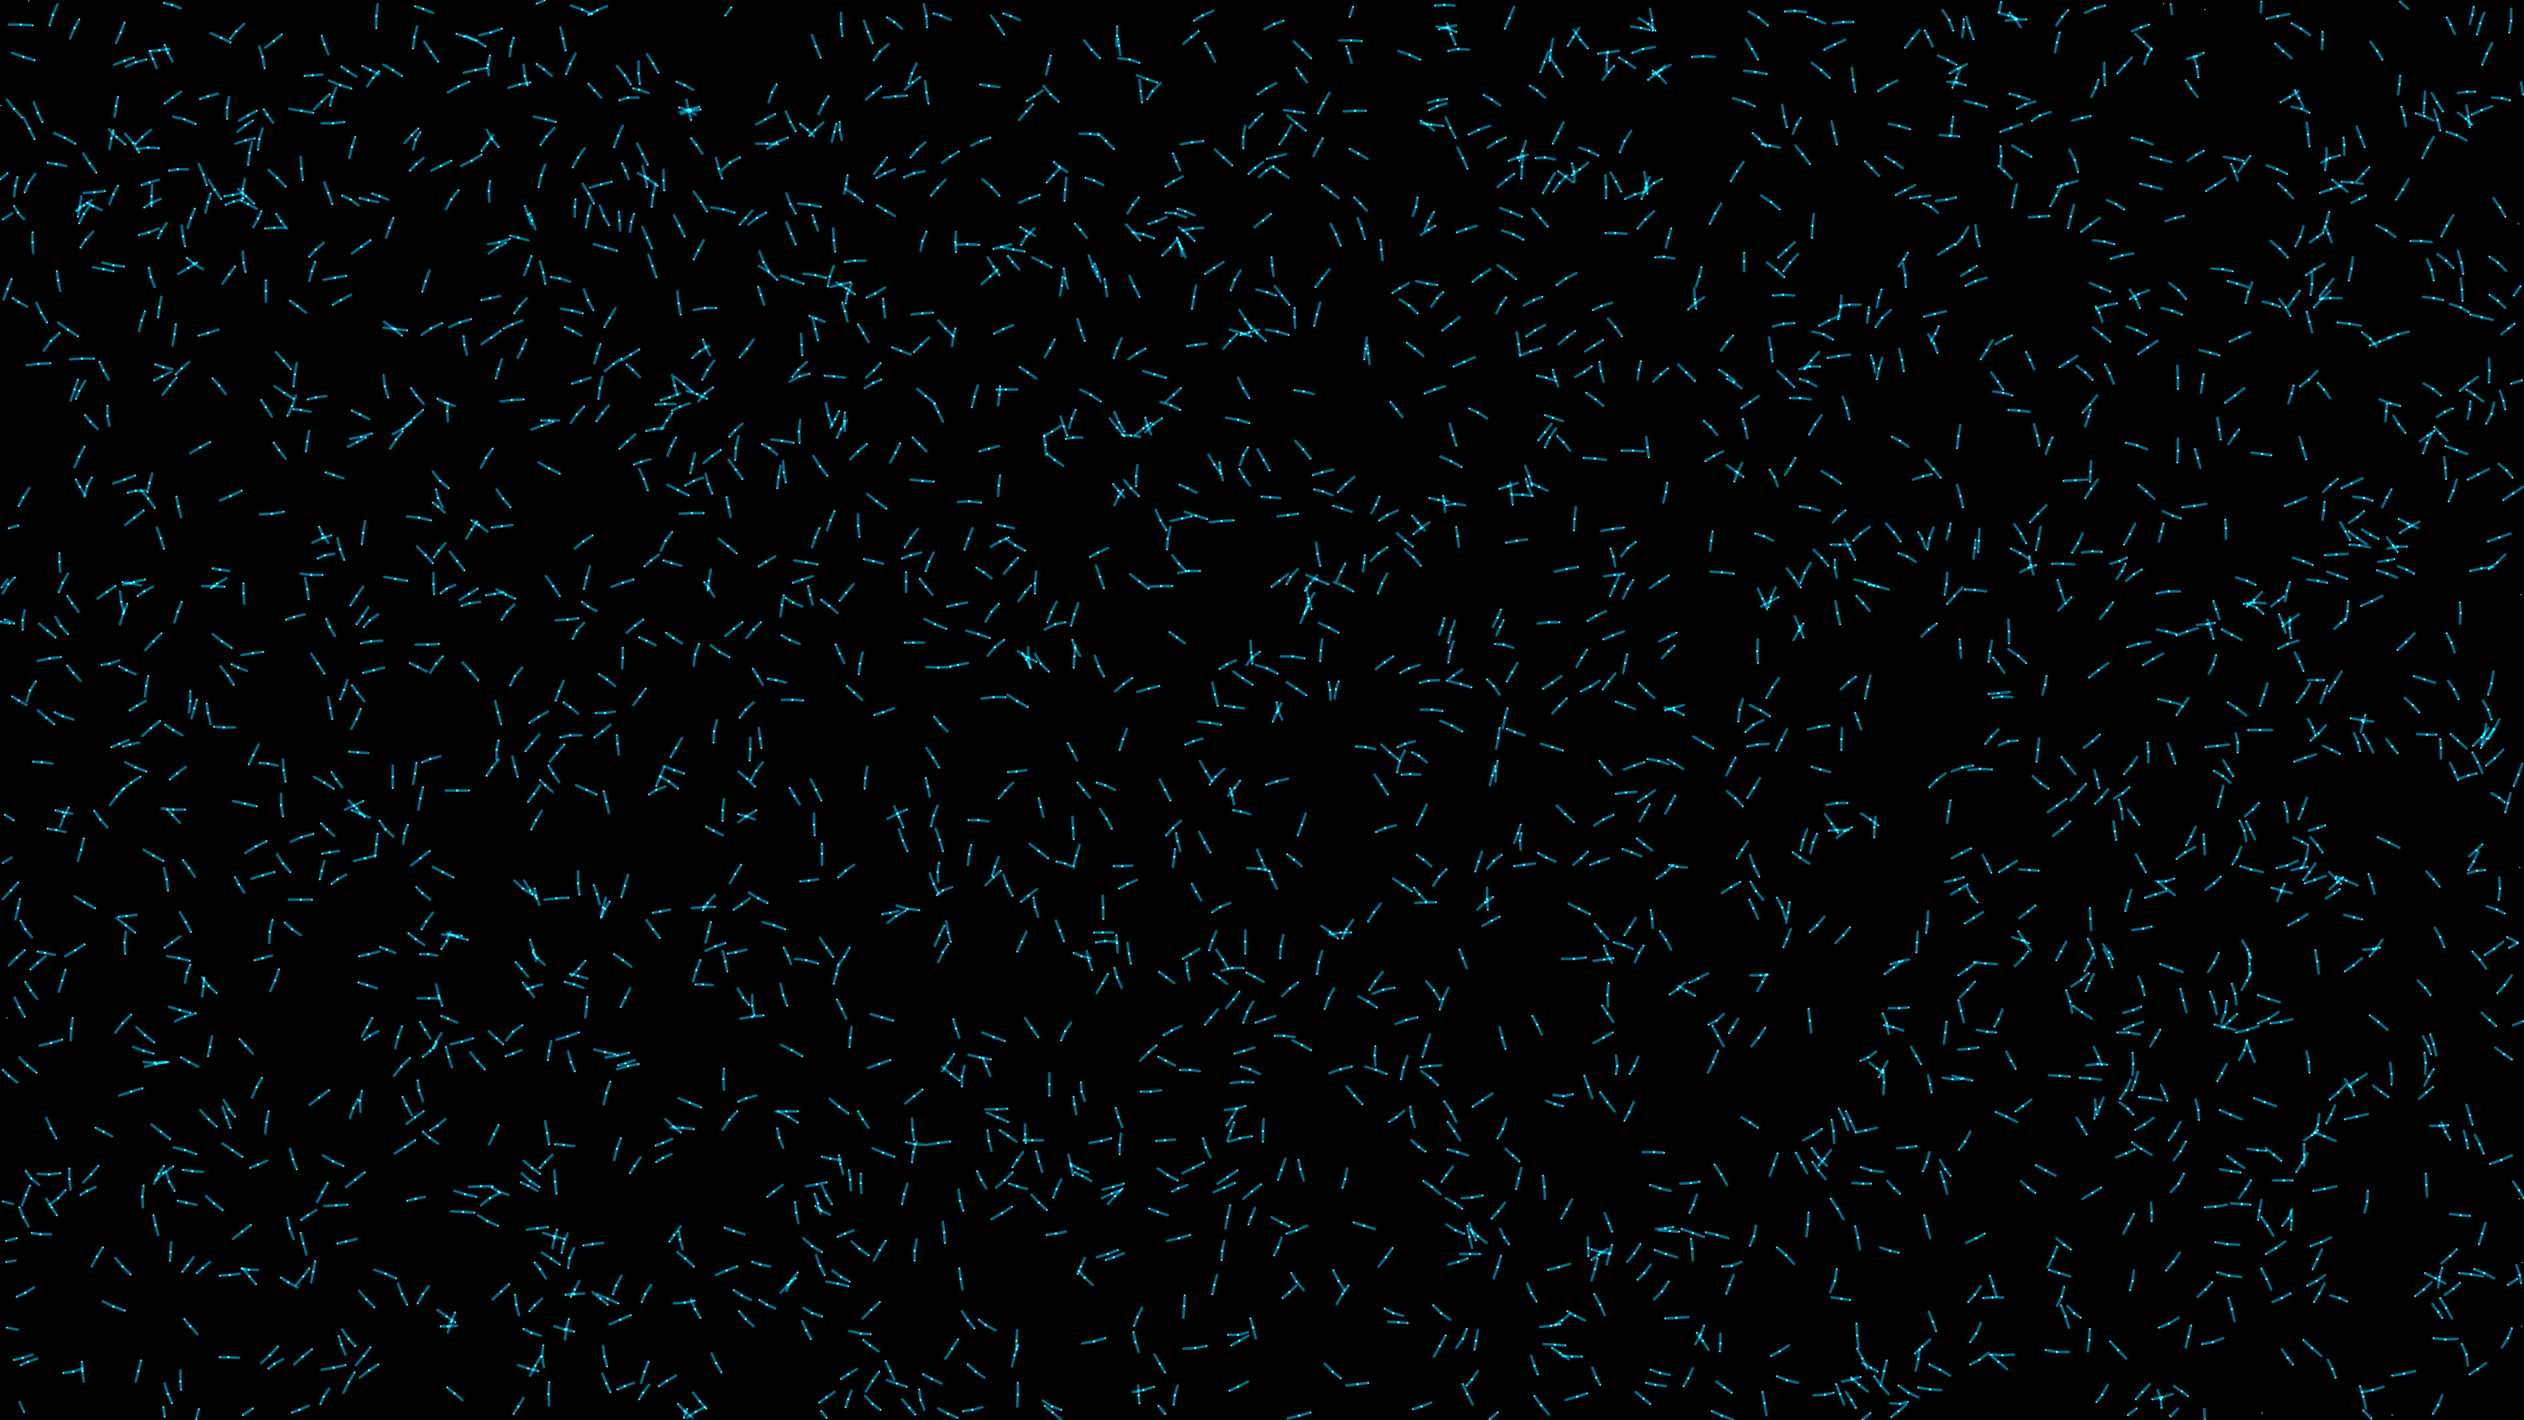
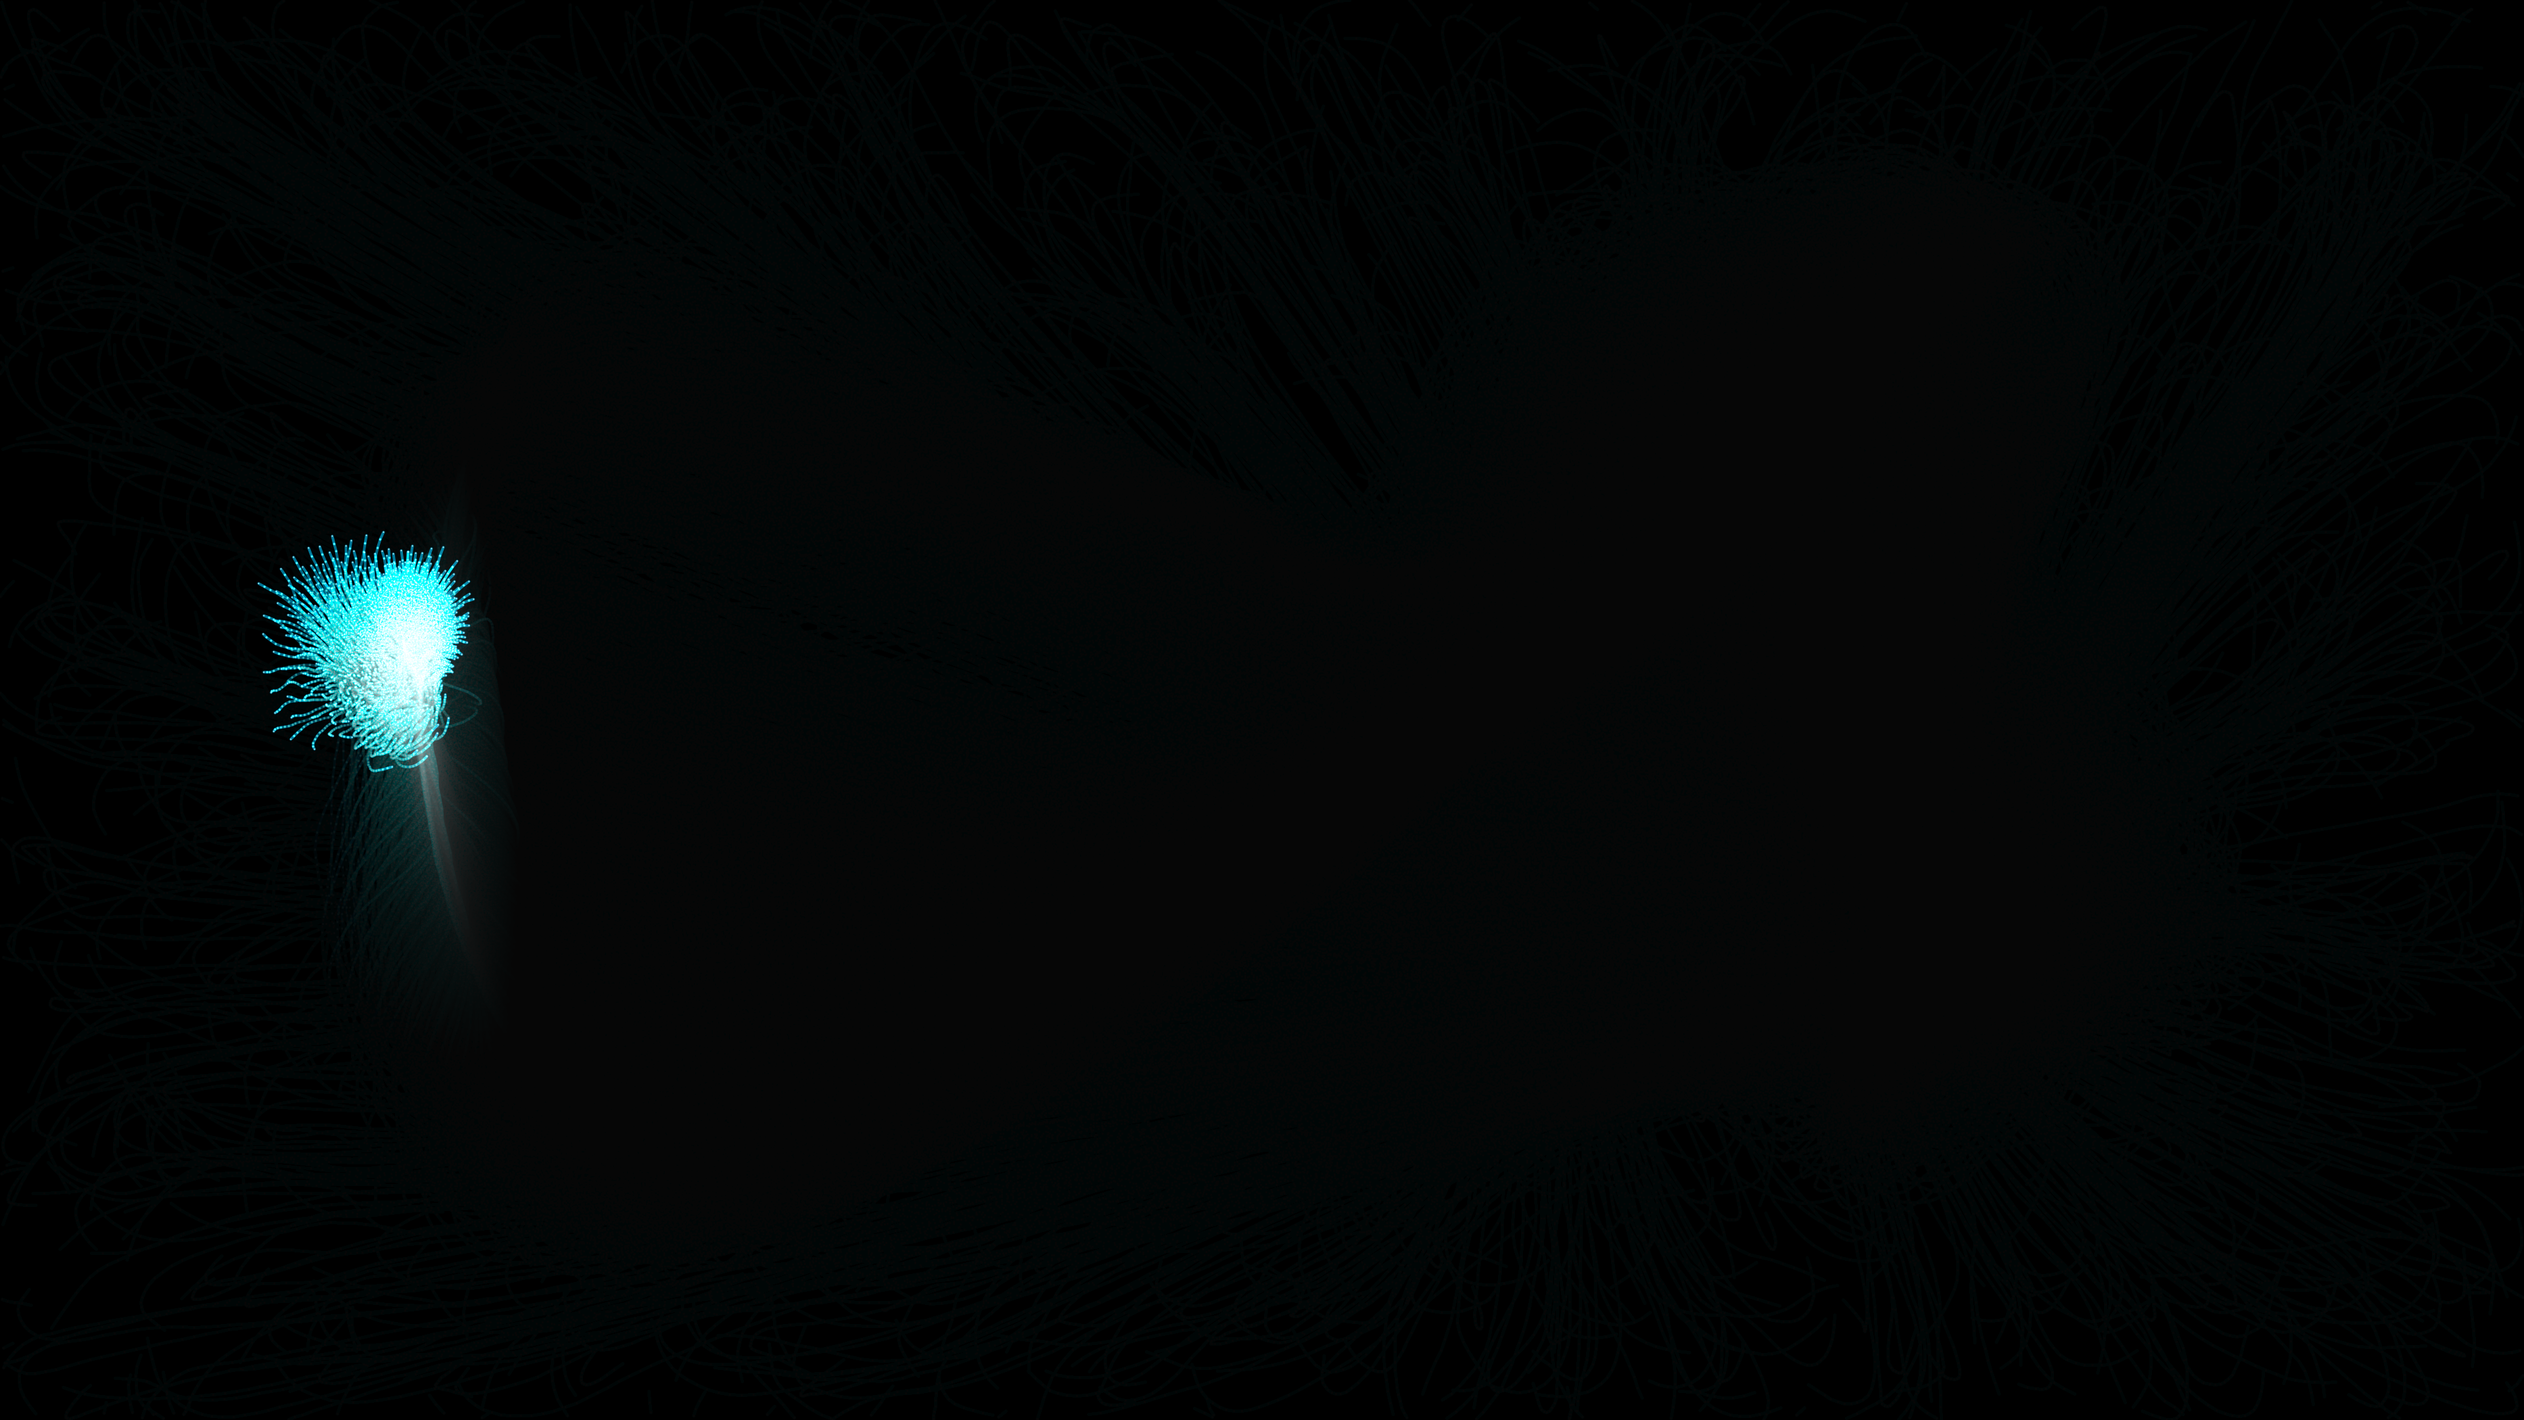
feat: kinetic_gravitational_lensing_accretion_disk_2d

diff --git a/sketch/kinetic_gravitational_lensing_accretion_disk_2d/main.py b/sketch/kinetic_gravitational_lensing_accretion_disk_2d/main.py
@@ -1,9 +1,10 @@
+import os
 from pathlib import Path
 import shutil
 import subprocess
 import sys
-import numpy as np
 import py5
+import numpy as np
 
 PROJECT_ROOT = Path(__file__).resolve().parents[2]
 if str(PROJECT_ROOT) not in sys.path:
@@ -16,6 +17,8 @@ from lib.sizes import get_sizes
 SKETCH_DIR = sketch_dir(__file__)
 WORK_NAME = SKETCH_DIR.name
 FRAMES_DIR = SKETCH_DIR / "frames"
+FINAL_VIDEO = SKETCH_DIR / f"{WORK_NAME}.mp4"
+
 DURATION_SEC = 15
 FPS = 60
 TOTAL_FRAMES = DURATION_SEC * FPS
@@ -23,121 +26,142 @@ PREVIEW_FILENAME = f"{WORK_NAME}_p1.png"
 PREVIEW_SIZE, OUTPUT_SIZE, _ = get_sizes()
 SIZE = OUTPUT_SIZE
 
-NUM_PARTICLES = 15000
-positions = None
-velocities = None
+# Setup particles for accretion disk
+N_PARTICLES = 150000
+G_MASS = 8000.0   # Gravitational parameter
+SOFTENING = 20.0  # Prevent infinite gravity at singularity
+
+positions = np.zeros((N_PARTICLES, 2))
+velocities = np.zeros((N_PARTICLES, 2))
+masses = np.random.uniform(0.5, 2.0, N_PARTICLES)
 
 def setup():
-    global positions, velocities
     py5.size(*SIZE)
     py5.pixel_density(1)
     FRAMES_DIR.mkdir(exist_ok=True)
+    py5.color_mode(py5.RGB, 255)
+    py5.background(0)
     
-    # Initialize particles outside the center
-    positions = np.random.rand(NUM_PARTICLES, 2) * [SIZE[0], SIZE[1]]
-    velocities = (np.random.rand(NUM_PARTICLES, 2) - 0.5) * 4.0
+    # Initialize particles in a disk around the center
+    # Density should be higher near the center, lower outwards
+    r = np.random.normal(SIZE[1]*0.3, SIZE[1]*0.1, N_PARTICLES)
+    r = np.abs(r) + 50 # Avoid absolute center
+    theta = np.random.uniform(0, 2 * np.pi, N_PARTICLES)
     
-    py5.background(2, 0, 5)
+    positions[:, 0] = SIZE[0]/2 + r * np.cos(theta)
+    positions[:, 1] = SIZE[1]/2 + r * np.sin(theta)
+    
+    # Orbital velocity v = sqrt(G*M / r) for circular orbit
+    v_mag = np.sqrt(G_MASS / r) * 15.0 # Scaled for visual effect
+    
+    # Add some turbulence
+    v_mag += np.random.normal(0, v_mag * 0.1)
+    
+    # Tangent vector is (-sin, cos)
+    velocities[:, 0] = -np.sin(theta) * v_mag
+    velocities[:, 1] = np.cos(theta) * v_mag
+    
+    # We want an elliptical/tilted look, so we scale Y to fake 3D perspective
+    positions[:, 1] = SIZE[1]/2 + (positions[:, 1] - SIZE[1]/2) * 0.3
+    velocities[:, 1] *= 0.3
 
 def draw():
-    global positions, velocities
-    
-    # Subtractive trail effect
-    py5.fill(2, 0, 5, 30)
+    # Subtle background fade for trails
+    py5.blend_mode(py5.BLEND)
+    py5.fill(0, 0, 5, 20)
     py5.no_stroke()
     py5.rect(0, 0, py5.width, py5.height)
     
-    cx, cy = SIZE[0] / 2, SIZE[1] / 2
-    
-    # Black hole singularity gravity
-    diff = np.array([cx, cy]) - positions
-    dist_sq = np.sum(diff**2, axis=1, keepdims=True)
-    dist = np.sqrt(dist_sq)
-    
-    # Inverse square gravity, very strong
-    force = diff / np.clip(dist_sq, 1000.0, None) * 1000.0
-    
-    # Add a tangential rotational force (accretion disk)
-    tangent = np.stack([-diff[:, 1], diff[:, 0]], axis=-1)
-    tangent_force = tangent / np.clip(dist_sq, 1000.0, None) * 2000.0
-    
-    velocities += force + tangent_force
-    
-    # Friction
-    velocities *= 0.98
-    
-    # Update positions
-    prev_positions = positions.copy()
-    positions += velocities
-    
-    # Re-spawn particles that fall into the event horizon or go too far off screen
-    event_horizon = dist < 50.0
-    off_screen = (positions[:, 0] < -1000) | (positions[:, 0] > SIZE[0] + 1000) | \
-                 (positions[:, 1] < -1000) | (positions[:, 1] > SIZE[1] + 1000)
-    reset_mask = event_horizon.flatten() | off_screen
-    
-    if np.any(reset_mask):
-        num_reset = np.sum(reset_mask)
-        # spawn far away
-        angle = np.random.rand(num_reset) * 2 * np.pi
-        rad = np.random.rand(num_reset) * 500 + 1000
-        positions[reset_mask, 0] = cx + rad * np.cos(angle)
-        positions[reset_mask, 1] = cy + rad * np.sin(angle)
-        
-        v_angle = angle + np.pi/2 # tangent
-        velocities[reset_mask, 0] = np.cos(v_angle) * 5.0
-        velocities[reset_mask, 1] = np.sin(v_angle) * 5.0
-        prev_positions[reset_mask] = positions[reset_mask]
-
-    # Draw lines
     py5.blend_mode(py5.ADD)
     
-    # Color mapping based on speed (relativistic blue shift)
-    speeds = np.linalg.norm(velocities, axis=1)
+    global positions, velocities
     
-    verts = np.empty((NUM_PARTICLES * 2, 2))
-    verts[0::2] = prev_positions
-    verts[1::2] = positions
+    center = np.array([py5.width/2, py5.height/2])
     
-    # Fast drawing with buckets based on speed
-    slow_mask = speeds < 10.0
-    med_mask = (speeds >= 10.0) & (speeds < 30.0)
-    fast_mask = speeds >= 30.0
+    # Calculate gravity vector towards center
+    d = center - positions
     
-    def draw_bucket(mask, color, weight):
-        if not np.any(mask): return
-        v_sub = np.empty((np.sum(mask) * 2, 2))
-        v_sub[0::2] = prev_positions[mask]
-        v_sub[1::2] = positions[mask]
-        py5.stroke(*color)
-        py5.stroke_weight(weight)
-        py5.begin_shape(py5.LINES)
-        py5.vertices(v_sub)
-        py5.end_shape()
+    # Fake 3D distance by un-scaling Y for physics calculations
+    d_phys = d.copy()
+    d_phys[:, 1] /= 0.3
+    
+    dist_sq = np.sum(d_phys**2, axis=1, keepdims=True)
+    dist = np.sqrt(dist_sq)
+    
+    # F = G * M / (r^2 + softening^2)
+    force_mag = G_MASS / (dist_sq + SOFTENING**2)
+    
+    # Direction vector
+    direction = d_phys / (dist + 0.001)
+    
+    # Acceleration
+    accel = direction * force_mag
+    
+    # Re-scale acceleration back to our fake 3D projection
+    accel[:, 1] *= 0.3
+    
+    velocities += accel
+    
+    # Add a tiny bit of drag so they spiral in very slowly
+    velocities *= 0.998
+    
+    old_positions = positions.copy()
+    positions += velocities
+    
+    # Draw particles
+    # Calculate color based on speed and distance
+    speed = np.linalg.norm(velocities, axis=1)
+    
+    # Blue shifted (fast, inner) to Red shifted (slow, outer)
+    # Using py5.lines for trails
+    py5.stroke_weight(1.5)
+    
+    # To draw efficiently with varying colors in py5, we can't vectorize different stroke colors in a single py5.lines call
+    # Instead we'll split into 3 speed buckets (Hot Blue, Orange, Red)
+    speed_percentile = np.percentile(speed, [33, 66])
+    
+    mask_slow = speed < speed_percentile[0]
+    mask_med = (speed >= speed_percentile[0]) & (speed < speed_percentile[1])
+    mask_fast = speed >= speed_percentile[1]
+    
+    # Slow - Deep Red
+    if np.any(mask_slow):
+        p1 = old_positions[mask_slow]
+        p2 = positions[mask_slow]
+        lines_array = np.column_stack((p1[:, 0], p1[:, 1], p2[:, 0], p2[:, 1]))
+        py5.stroke(200, 30, 30, 80)
+        py5.lines(lines_array)
+        
+    # Medium - Gold/Orange
+    if np.any(mask_med):
+        p1 = old_positions[mask_med]
+        p2 = positions[mask_med]
+        lines_array = np.column_stack((p1[:, 0], p1[:, 1], p2[:, 0], p2[:, 1]))
+        py5.stroke(255, 150, 50, 120)
+        py5.lines(lines_array)
+        
+    # Fast - Bright Cyan/White (Inner disk)
+    if np.any(mask_fast):
+        p1 = old_positions[mask_fast]
+        p2 = positions[mask_fast]
+        lines_array = np.column_stack((p1[:, 0], p1[:, 1], p2[:, 0], p2[:, 1]))
+        py5.stroke(150, 230, 255, 180)
+        py5.lines(lines_array)
 
-    # Violet/Blue for slow
-    draw_bucket(slow_mask, (170, 68, 255, 100), 1.5)
-    # Cyan for medium
-    draw_bucket(med_mask, (136, 204, 255, 150), 2.0)
-    # White for fast
-    draw_bucket(fast_mask, (255, 255, 255, 200), 2.5)
-    
+    # Draw the central black hole (pure black to occlude)
     py5.blend_mode(py5.BLEND)
-
-    # Draw event horizon (black circle)
     py5.fill(0)
     py5.no_stroke()
-    py5.circle(cx, cy, 100)
-
+    py5.ellipse(center[0], center[1], 80, 80 * 0.3)
+    
     py5.save_frame(str(FRAMES_DIR / "frame-####.png"))
-
-
+    
     if py5.frame_count % 60 == 0:
-        print(f"[Render Progress] Frame {py5.frame_count}/{TOTAL_FRAMES} ({py5.frame_count/TOTAL_FRAMES*100:.1f}%)", flush=True)
+        print(f"[Render Progress] Frame {py5.frame_count}/{TOTAL_FRAMES} ({py5.frame_count/TOTAL_FRAMES*100:.1f}%)")
 
     if py5.frame_count >= TOTAL_FRAMES:
         py5.exit_sketch()
-        print(f"[Render FFmpeg] Compiling {TOTAL_FRAMES} frames into video...", flush=True)
+        print(f"[Render FFmpeg] Compiling {TOTAL_FRAMES} frames into video...")
         subprocess.run([
             "ffmpeg", "-y", "-r", str(FPS),
             "-i", str(FRAMES_DIR / "frame-%04d.png"),
@@ -150,8 +174,9 @@ def draw():
         
         if FRAMES_DIR.exists():
             shutil.rmtree(FRAMES_DIR)
-            
+        
         import os
         os._exit(0)
 
-py5.run_sketch()
+if __name__ == '__main__':
+    py5.run_sketch()

diff --git a/sketch/kinetic_gravitational_lensing_accretion_disk_2d/README.md b/sketch/kinetic_gravitational_lensing_accretion_disk_2d/README.md
@@ -1,18 +1,17 @@
-# kinetic_gravitational_lensing_accretion_disk_2d
-
-![Preview](kinetic_gravitational_lensing_accretion_disk_2d_p1.png)
-
-## Metadata
-- **Date**: 2026-06-30
-- **Theme**: An abstract visualization of a super-massive gravitational lens distorting a field of stars, forming
-- **Technique**: A high-performance 2D particle system using 15,000 particles. Vectorized numpy operations calculate a strong inverse-square central gravitational pull alongside a tangential rotational force to simulate the swirling accretion disk. Particles are re-spawned at the edges if they fall past the event horizon. Speed-based bucketing is used to color the particles, mimicking a relativistic blue shift (violet to cyan to blinding white). Additive blending (`py5.ADD`) creates the glowing, dense starfield effect.
-- **Logic Lab Reference**: 
+# Kinetic Gravitational Lensing Accretion Disk 2D
 
 ## Concept
-An abstract visualization of a super-massive gravitational lens distorting a field of stars, forming a glowing accretion disk. It features a stark, massive black event horizon surrounded by swirling, fast-moving particles that are stretched by extreme gravitational forces.
+A massive black hole distorts an accretion disk of 150,000 glowing particles. The immense gravity warps the trajectories and the spatial field around it. A fake 3D perspective creates a dramatic tilted orbital plane.
 
-## Technical Details
-- **Renderer**: Unknown
-- **Simulation**: Unknown
-- **Visuals**: Unknown
-- **Animation**: Contains animation details
+## Technical Implementation
+- Newtonian 2D physics simulation of particles orbiting a massive central attractor ($F = G \frac{M}{r^2 + \text{softening}^2}$).
+- Initial positions and velocities are generated to form a stable (yet turbulent) accretion disk.
+- Fake 3D perspective is achieved by squishing the Y-axis coordinates during rendering, but restoring them during physics calculations to ensure accurate circular orbital mechanics.
+- A faint amount of drag is applied so particles slowly spiral into the event horizon.
+- Particles are split into 3 speed percentiles, mapping color from deep red (slow outer rim) to glowing cyan/white (fast inner disk) to simulate relativistic blue-shifting and immense heat.
+
+## Execution
+- `Particles`: 150,000
+- `FPS`: 60
+- `Duration`: 15 Seconds
+- `Resolution`: 3840x2160

diff --git a/sketch/WORKS.md b/sketch/WORKS.md
@@ -1,3 +1,10 @@
+## kinetic_gravitational_lensing_accretion_disk_2d
+- **Date**: 2026-07-02
+- **Type**: Animation (900 frames, 60fps)
+- **Concept**: A massive black hole distorts an accretion disk of glowing particles. The immense gravity warps the trajectories and the spatial field around it. A fake 3D perspective creates a dramatic tilted orbital plane.
+- **Techniques**: Newtonian 2D physics simulation of 150,000 particles orbiting a massive central attractor. Fake 3D perspective is achieved by squishing the Y-axis coordinates during rendering, but restoring them during physics calculations. A faint amount of drag is applied so particles slowly spiral into the event horizon.
+- **Palette**: Dark void background. Particles are split into 3 speed percentiles, mapping color from deep red (slow outer rim) to glowing cyan/white (fast inner disk) to simulate heat and blue-shifting.
+
 ## kinetic_curl_noise_vortex_flow_2d
 - **Date**: 2026-07-02
 - **Type**: Animation (900 frames, 60fps)
